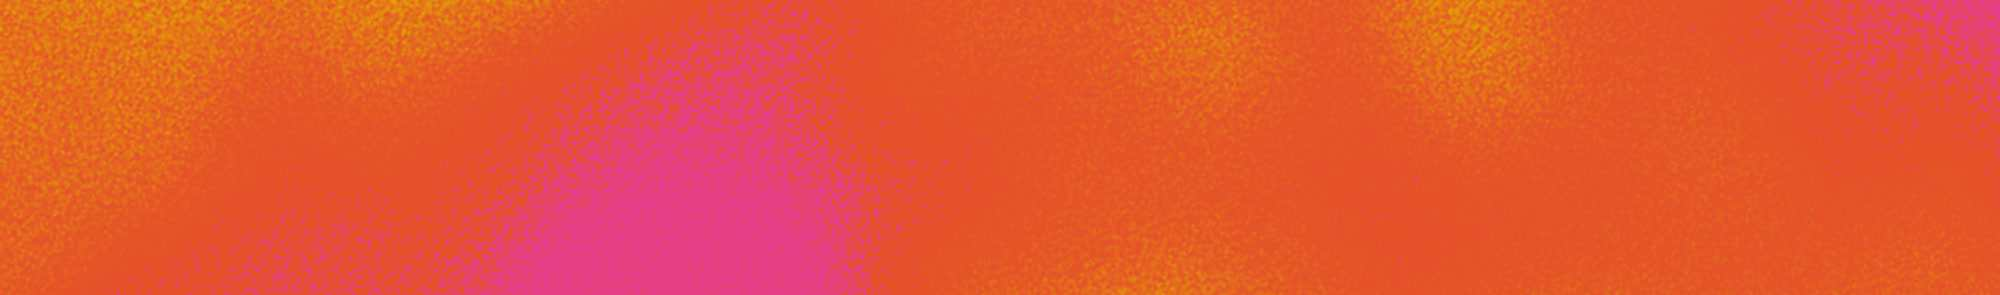
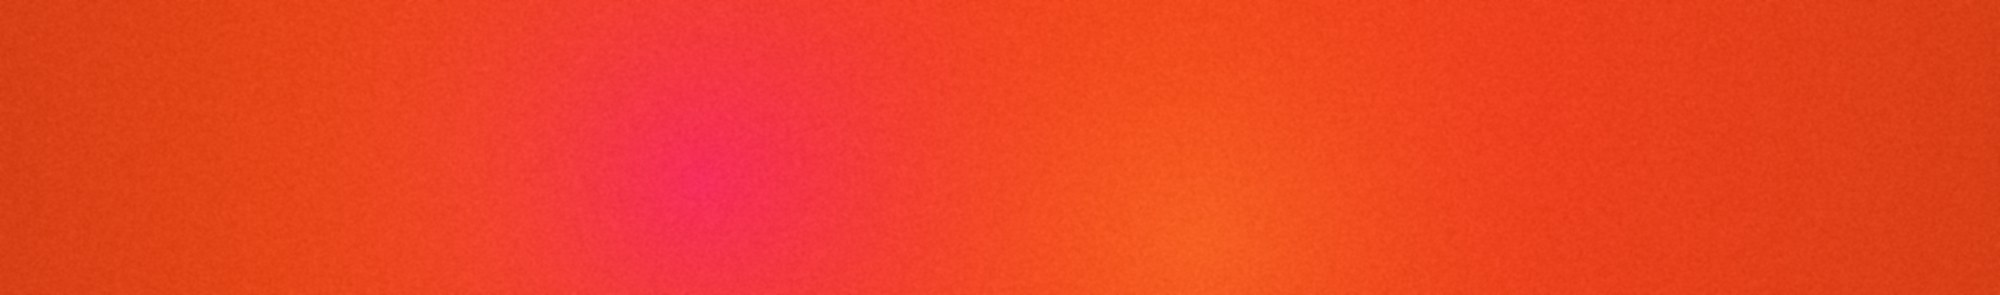
chore(public): 公开前合规与隐私清理
- 去品牌复刻表述：styles.css / app.js / server.py / AGENTS.md /
  web-ui-design 规格与归档文档统一改为「暗色三栏音乐工作台视觉基线」
- 替换 web/static/aura.jpg 为程序化生成的渐变素材（原图为外部产品素材）
- 补第三方许可：Inter Tight OFL、Phosphor MIT、ASRbox MIT（CUDA 套件移植来源），
  并在 THIRD_PARTY_NOTICES 增加对应声明
- 重截 docs/ui-baseline/{en,zh}/{library,detail}.png：用中性虚构示例曲目替换
  开发期本地测试曲库，1440×900，布局与旧基线一致
- 脱敏内部项目引用（openspec 归档与进行中文档不再出现私有项目名）
- .gitignore 忽略 browser-screenshots/

diff --git a/web/static/app.js b/web/static/app.js
@@ -1,4 +1,4 @@
-/* YuE2 Studio frontend — Suno-replica interactions */
+/* YuE2 Studio frontend — music workspace interactions */
 "use strict";
 
 const $ = (sel) => document.querySelector(sel);

diff --git a/web/static/styles.css b/web/static/styles.css
@@ -1,4 +1,4 @@
-/* YuE2 Studio — pixel-faithful Suno app replica */
+/* YuE2 Studio — dark three-column music workspace theme */
 :root {
   --bg: #101012;
   --bg-raise: #17171b;

diff --git a/web/server.py b/web/server.py
@@ -1,4 +1,4 @@
-"""FastAPI backend for YuE2 Studio, a Suno-style interface for YuE2.
+"""FastAPI backend for YuE2 Studio, a modern music-workstation interface for YuE2.
 
 Serves the static frontend, a library persisted to web/data/library.json, and a
 single-worker queue that drives YuE2Pipeline (plan -> semantic -> synthesize ->

diff --git a/docs/ui-baseline/README.md b/docs/ui-baseline/README.md
@@ -1,13 +1,13 @@
 # Web UI 基线截图
 
-本目录是 `web/static/` 前端（Suno 像素级复刻风格）的**冻结基线截图**，与 `openspec/specs/web-ui-design/spec.md` 配套使用。任何触及 `web/static/` 的改动实施完成后，应以相同条件重新截图并与本目录对照，确认除提案声明的视觉变更外无差异。
+本目录是 `web/static/` 前端（暗色三栏音乐工作台视觉基线）的**冻结基线截图**，与 `openspec/specs/web-ui-design/spec.md` 配套使用。任何触及 `web/static/` 的改动实施完成后，应以相同条件重新截图并与本目录对照，确认除提案声明的视觉变更外无差异。
 
 ## 截图条件
 
 - 视口：**1440 × 900**（CSS 像素，Playwright `page.screenshot({ scale: "css" })`）
 - 服务：本地 `python web/server.py`（`http://127.0.0.1:7860/`）
 - 语言：`en/` 与 `zh/` 各一套（在设置弹窗「界面语言」切换）
-- 日期：2026-10-11
+- 日期：2026-10-27（library / detail 使用中性虚构示例数据，2026-10-27 重截；其余 10 张仍为 2026-10-11）
 
 ## 页面清单
 
@@ -16,7 +16,7 @@
 | `create-simple.png` | Create · 简单模式 | 侧栏「创作」，默认态 |
 | `create-advanced.png` | Create · 高级模式（展开 More Options） | 点「高级」→ 点「More Options」 |
 | `library.png` | Library · Songs | 侧栏「音乐库」 |
-| `detail.png` | 歌曲详情页 | 列表中点一首歌（基线为 Ink Moonlight） |
+| `detail.png` | 歌曲详情页 | Create 视图点列表第一行（基线为中性示例曲目 Neon Harbour） |
 | `settings.png` | 设置弹窗 | 侧栏「设置」 |
 | `models.png` | 模型页 | 侧栏「模型」 |
 | `llm.png` | LLM 配置页（供应商列表 + 试聊面板；页内下滚一屏以完整取景） | 侧栏「LLM 配置」 |

diff --git a/openspec/changes/archive/2026-10-27-oneclick-platform-release/design.md b/openspec/changes/archive/2026-10-27-oneclick-platform-release/design.md
@@ -3,7 +3,7 @@
 ## Context
 
 - 现状：`packaging/build_package.py` 是通用单包构建器（两个启动器都打进去），产物 `oneclick-packages/yue2-studio-oneclick-<YYYYMMDD>.zip`；`oneclick.yml` 在 macos/windows 两个 runner 上各构建一次，然后 `cp` 改名上传到滚动 release `oneclick-latest`——两个资产内容一样。
-- 参照项目 `xiaoheihe_crawler` 的做法：`oneclick-macos.yml` / `oneclick-windows.yml` 两个滚动 workflow（push main → 各自平台包 → 滚动 release），另有 `oneclick-release.yml`（`push tags v*` → prepare 建草稿 → mac/win 并行构建+冒烟+传资产 → publish 草稿转正式）。其发布约定：用户 push 代码后口头告知版本号，agent 执行 `git tag vN && git push origin vN`，其余全自动。
+- 参照内部项目的做法：`oneclick-macos.yml` / `oneclick-windows.yml` 两个滚动 workflow（push main → 各自平台包 → 滚动 release），另有 `oneclick-release.yml`（`push tags v*` → prepare 建草稿 → mac/win 并行构建+冒烟+传资产 → publish 草稿转正式）。其发布约定：用户 push 代码后口头告知版本号，agent 执行 `git tag vN && git push origin vN`，其余全自动。
 - 用户诉求：yue 也要「GitHub 生成两个一键包 + tag 形式的 release」，收件人拿到的包只含自己平台的内容。
 
 ## Goals / Non-Goals

diff --git a/openspec/changes/archive/2026-10-11-fix-llm-provider-ui/proposal.md b/openspec/changes/archive/2026-10-11-fix-llm-provider-ui/proposal.md
@@ -5,7 +5,7 @@
 用户实机使用 `llm-multi-provider` 后指出两处问题（用户直接下了修复指令「改」）：
 
 1. **下拉点不开**：供应商弹窗的「平台预设」、页面的「当前使用」在**真实鼠标点击**下不可用——`#drop-menu` 的全局「点外关闭」监听器只白名单了旧触发器（`#model-pill` / `#lora-pick` / `.feed-pill`），新触发器不在名单里：菜单打开后同一次点击继续冒泡即被收起。开发期走查用 JS `.click()`（隐藏元素也能点）掩盖了该问题；「已拉取模型」同属此列。
-2. **弹窗布局差**：供应商弹窗沿用页面级 `.set-row` 行式（标签贴左、控件贴右缘、中间大段空档），不符合用户参考项目（`xiaoheihe_crawler/sentiment-monitor`）的对话框版式——标签列固定宽 + 控件列占满、拉取后独立「已拉取模型」下拉、底部「取消 / 保存」按钮行、启用为开关。
+2. **弹窗布局差**：供应商弹窗沿用页面级 `.set-row` 行式（标签贴左、控件贴右缘、中间大段空档），不符合用户参考项目（另一个内部项目）的对话框版式——标签列固定宽 + 控件列占满、拉取后独立「已拉取模型」下拉、底部「取消 / 保存」按钮行、启用为开关。
 
 ## What Changes
 

diff --git a/openspec/changes/2026-10-27-self-contained-oneclick-bundle/design.md b/openspec/changes/2026-10-27-self-contained-oneclick-bundle/design.md
@@ -3,7 +3,7 @@
 ## Context
 
 - 现状：`build_package.py --platform …` 产出约 9 MB 的瘦源码包；`start.command` / `start.bat` → `tools/start.py` → 缺环境时跑 `bootstrap.py --yes --skip-models`，**第一次启动要联网 pip 安装依赖（约 1–2 GiB）**，随后才起服务。模型不随包，由应用内「模型」页下载（已有国内/国际渠道）。
-- 参照项目 `xiaoheihe_crawler` 的形态：`packaging/build_macos.sh` 下载 python-build-standalone（PBS）解出 `runtime/`，再 `pip install --target envs/<层>` 装依赖，启动器直接用包内 runtime，免安装、离线启动。
+- 参照内部项目的形态：`packaging/build_macos.sh` 下载 python-build-standalone（PBS）解出 `runtime/`，再 `pip install --target envs/<层>` 装依赖，启动器直接用包内 runtime，免安装、离线启动。
 - 体积实测（PyPI / GitHub API 查询）：PBS cpython 3.11 stripped 包 mac 25.5 MB / win 24.0 MB；torch 2.10.0 mac arm64 75.7 MB、win64 108.5 MB；transformers 11.4 MB、numpy 13.7 MB、tokenizers 7.3 MB、torchaudio ~1 MB；mac MLX 0.6 MB + mlx-metal 42.9–74.5 MB（arm64 macOS ≥14）。估算 zip：mac 250–350 MB、win 250–300 MB，均低于 GitHub 单资产 2 GiB。
 
 ## Goals / Non-Goals

diff --git a/openspec/changes/archive/2026-10-11-oneclick-packaging/proposal.md b/openspec/changes/archive/2026-10-11-oneclick-packaging/proposal.md
@@ -2,7 +2,7 @@
 
 ## Why
 
-当前「一键启动」（`start.command` / `start.bat` / `START.md`）直接摊在仓库根目录，用户分发时等于把整个仓库（含 `.venv*`、`models/`、`outputs/`、`web/data/` 用户数据）给出去。用户要求参考 `xiaoheihe_crawler` 项目的做法：**构建区（`packaging/`）+ 产物区（`oneclick-packages/`）分离**——一键包专门构建进一个文件夹，而不是散在/构建到根目录。
+当前「一键启动」（`start.command` / `start.bat` / `START.md`）直接摊在仓库根目录，用户分发时等于把整个仓库（含 `.venv*`、`models/`、`outputs/`、`web/data/` 用户数据）给出去。用户要求参考另一个内部项目的做法：**构建区（`packaging/`）+ 产物区（`oneclick-packages/`）分离**——一键包专门构建进一个文件夹，而不是散在/构建到根目录。
 
 参考项目模式（已调研）：`packaging/` 入库存放构建脚本、启动器源、使用说明、素材；`oneclick-packages/<平台>/` 为 gitignore 的产物区；产物命名 `<产品>-oneclick-<平台>-<架构>-<YYYYMMDD>.zip`；包内含自带 runtime + 启动器 + 应用代码 + 使用说明，收件人免安装双击即用。
 

diff --git a/AGENTS.md b/AGENTS.md
@@ -58,7 +58,7 @@ codegraph sync                # 改动后同步索引
 
 ## 前端风格冻结
 
-`web/static/` 是对 Suno app 的像素级复刻，**视觉风格已冻结**，契约见 `openspec/specs/web-ui-design/spec.md`（冻结基线）。任何触及 `web/static/` 的提案必须对照该规格自查；改变外观/布局/组件视觉/品牌元素的提案必须在 proposal 中显式声明「视觉变更」并经用户确认。设计令牌以 `styles.css` `:root` 为唯一来源，新增样式必须复用令牌；纯文案/i18n、不可见行为修复不算视觉变更。基线截图在 `docs/ui-baseline/`。
+`web/static/` 是已冻结的暗色三栏音乐工作台视觉基线（参考主流 AI 音乐产品风格），**视觉风格已冻结**，契约见 `openspec/specs/web-ui-design/spec.md`（冻结基线）。任何触及 `web/static/` 的提案必须对照该规格自查；改变外观/布局/组件视觉/品牌元素的提案必须在 proposal 中显式声明「视觉变更」并经用户确认。设计令牌以 `styles.css` `:root` 为唯一来源，新增样式必须复用令牌；纯文案/i18n、不可见行为修复不算视觉变更。基线截图在 `docs/ui-baseline/`。
 
 ## 提示词现状
 

diff --git a/openspec/changes/archive/2026-10-11-freeze-web-ui-design/design.md b/openspec/changes/archive/2026-10-11-freeze-web-ui-design/design.md
@@ -2,7 +2,7 @@
 
 ## Context
 
-`web/static/` 共 4 个核心文件：`index.html`（275 行，三栏 + 播放条骨架）、`styles.css`（629 行，设计令牌集中在 `:root`）、`app.js`（1566 行）、`i18n.js`（611 行，en/zh）。CSS 首行自述为 Suno 像素级复刻。令牌化程度已经很高（颜色/圆角/字体全部走 CSS 变量），这是「冻结」可行性高的关键前提。仓库已有 `compare/` 目录存放人工对比截图、`ref-suno/` 存放 Suno 参考截图，说明截图对照是该项目的既有工作方式。
+`web/static/` 共 4 个核心文件：`index.html`（275 行，三栏 + 播放条骨架）、`styles.css`（629 行，设计令牌集中在 `:root`）、`app.js`（1566 行）、`i18n.js`（611 行，en/zh）。CSS 首行自述为暗色三栏音乐工作台视觉。令牌化程度已经很高（颜色/圆角/字体全部走 CSS 变量），这是「冻结」可行性高的关键前提。仓库已有 `compare/` 目录存放人工对比截图、`ref-suno/` 存放 Suno 参考截图，说明截图对照是该项目的既有工作方式。
 
 ## Goals / Non-Goals
 

diff --git a/THIRD_PARTY_NOTICES.md b/THIRD_PARTY_NOTICES.md
@@ -14,3 +14,18 @@ These notices cover the identified source code and retain its original licenses.
 The YuE2 model checkpoint weights are separately licensed under CC BY-NC 4.0,
 with additional permission for individual creators; see MODEL_LICENSE for
 academic-use terms, scope and full terms. This does not relicense third-party code.
+
+## Ported implementation notices
+
+The Windows CUDA acceleration kit (`web/cuda_kit.py`, `packaging/build_cuda_kit.py`,
+`packaging/cuda-requirements-win.txt`) is ported from the open-source ASRbox project
+(<https://github.com/Goldloli/asrbox>, MIT License, Copyright (c) 2026 Goldloli) and
+adapted for YuE2 (paths, state model, manifest schema). The original MIT license
+text is reproduced in `licenses/ASRbox-MIT.txt`.
+
+## Web assets
+
+- **Inter Tight** (Google Fonts) — SIL Open Font License, Version 1.1.
+  Full text: `web/static/vendor/intertight/OFL.txt`.
+- **Phosphor Icons** — MIT License, Copyright (c) 2023 Phosphor Icons.
+  Full text: `web/static/vendor/phosphor/LICENSE.txt`.

diff --git a/openspec/changes/2026-10-27-self-contained-oneclick-bundle/proposal.md b/openspec/changes/2026-10-27-self-contained-oneclick-bundle/proposal.md
@@ -4,7 +4,7 @@
 
 当前一键包是「瘦包 + 首次启动 pip 装依赖」：双击启动器后要联网 `pip install -e .[web]`（torch 等约 1–2 GiB，mac 上实测要跑好几分钟），用户看到的是长时间滚动的下载日志；**模型不会在启动时下载**（要进「模型」页手动点），但依赖这一步已经足够劝退。
 
-用户要求对齐另一个项目（`xiaoheihe_crawler` / 舆情监控）的形态：**便携 Python runtime 与全部依赖都打进包里**，双击启动器**不联网、直接打开网页**；模型仍然不随包分发，进应用后在「模型」页按需下载（可选国内镜像 / 国际直连）。
+用户要求对齐另一个项目（另一个内部项目（舆情监控））的形态：**便携 Python runtime 与全部依赖都打进包里**，双击启动器**不联网、直接打开网页**；模型仍然不随包分发，进应用后在「模型」页按需下载（可选国内镜像 / 国际直连）。
 
 ## What Changes
 
